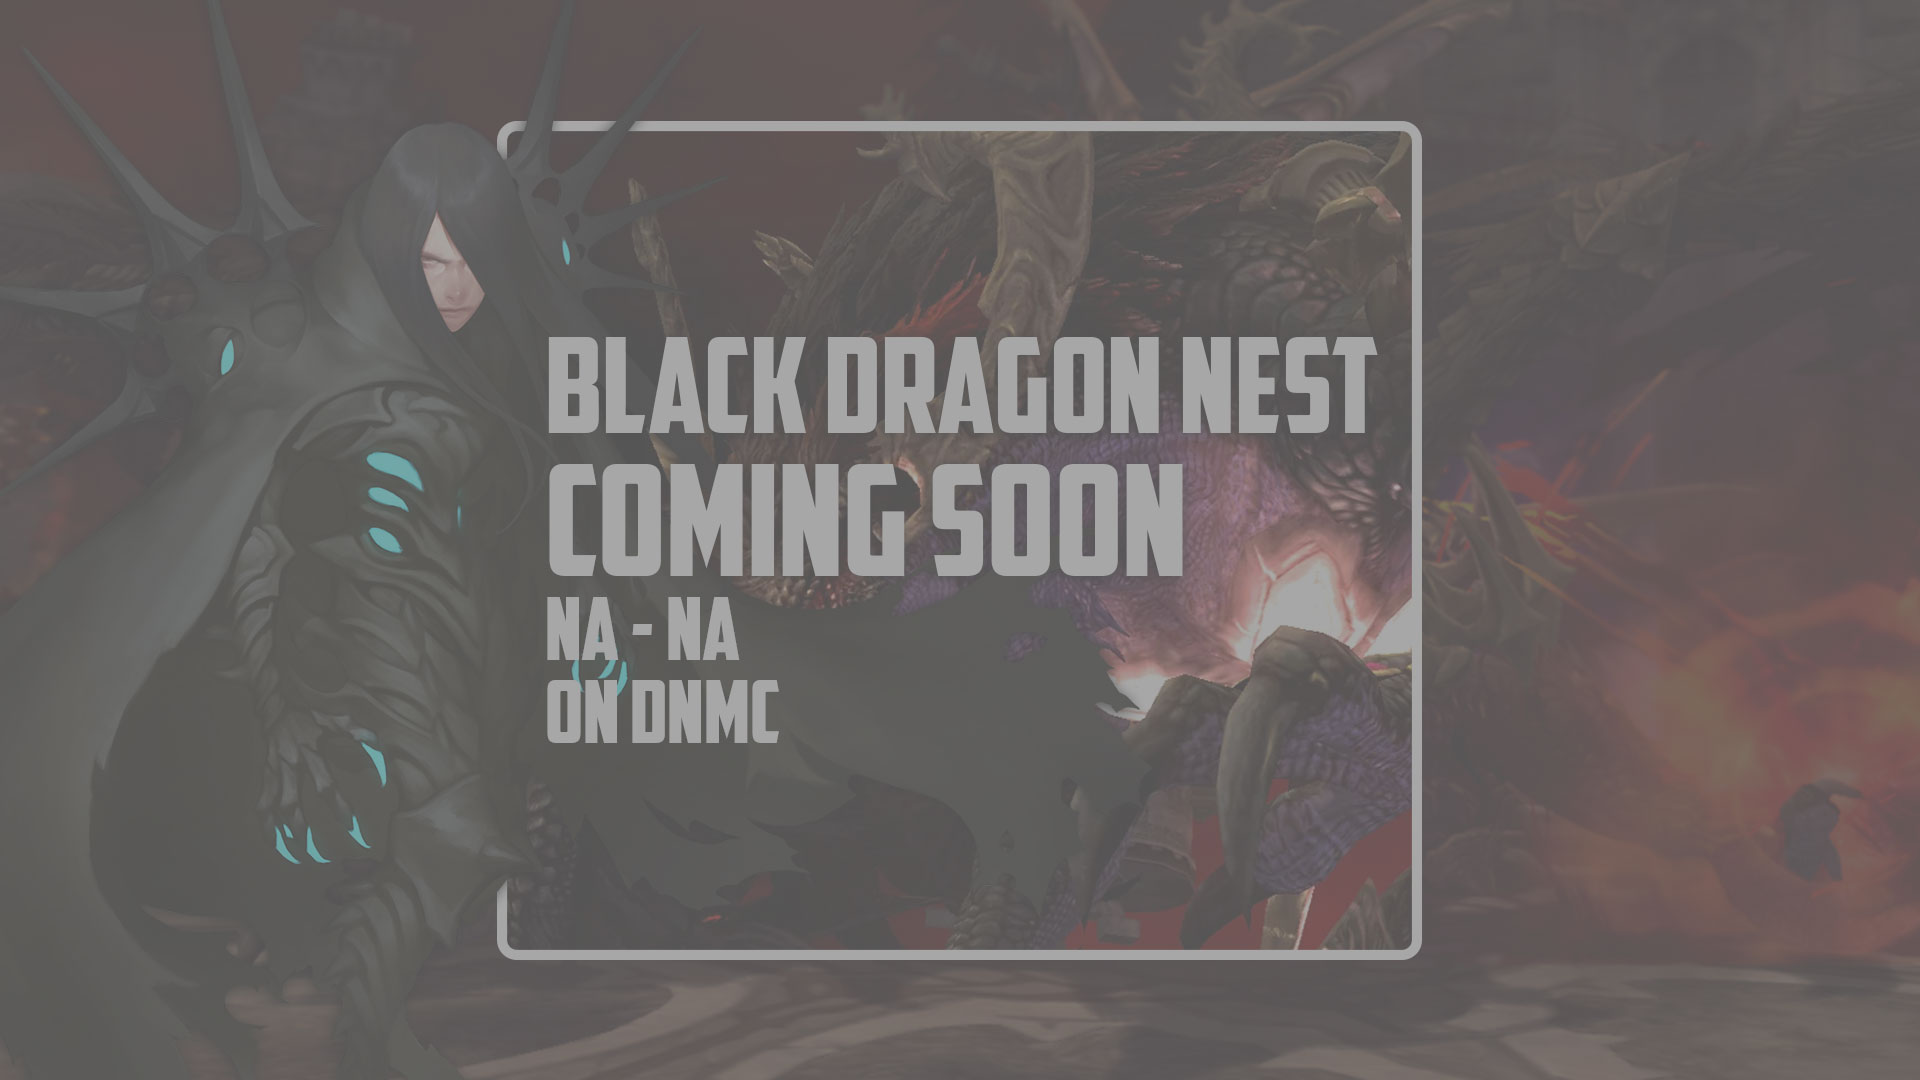
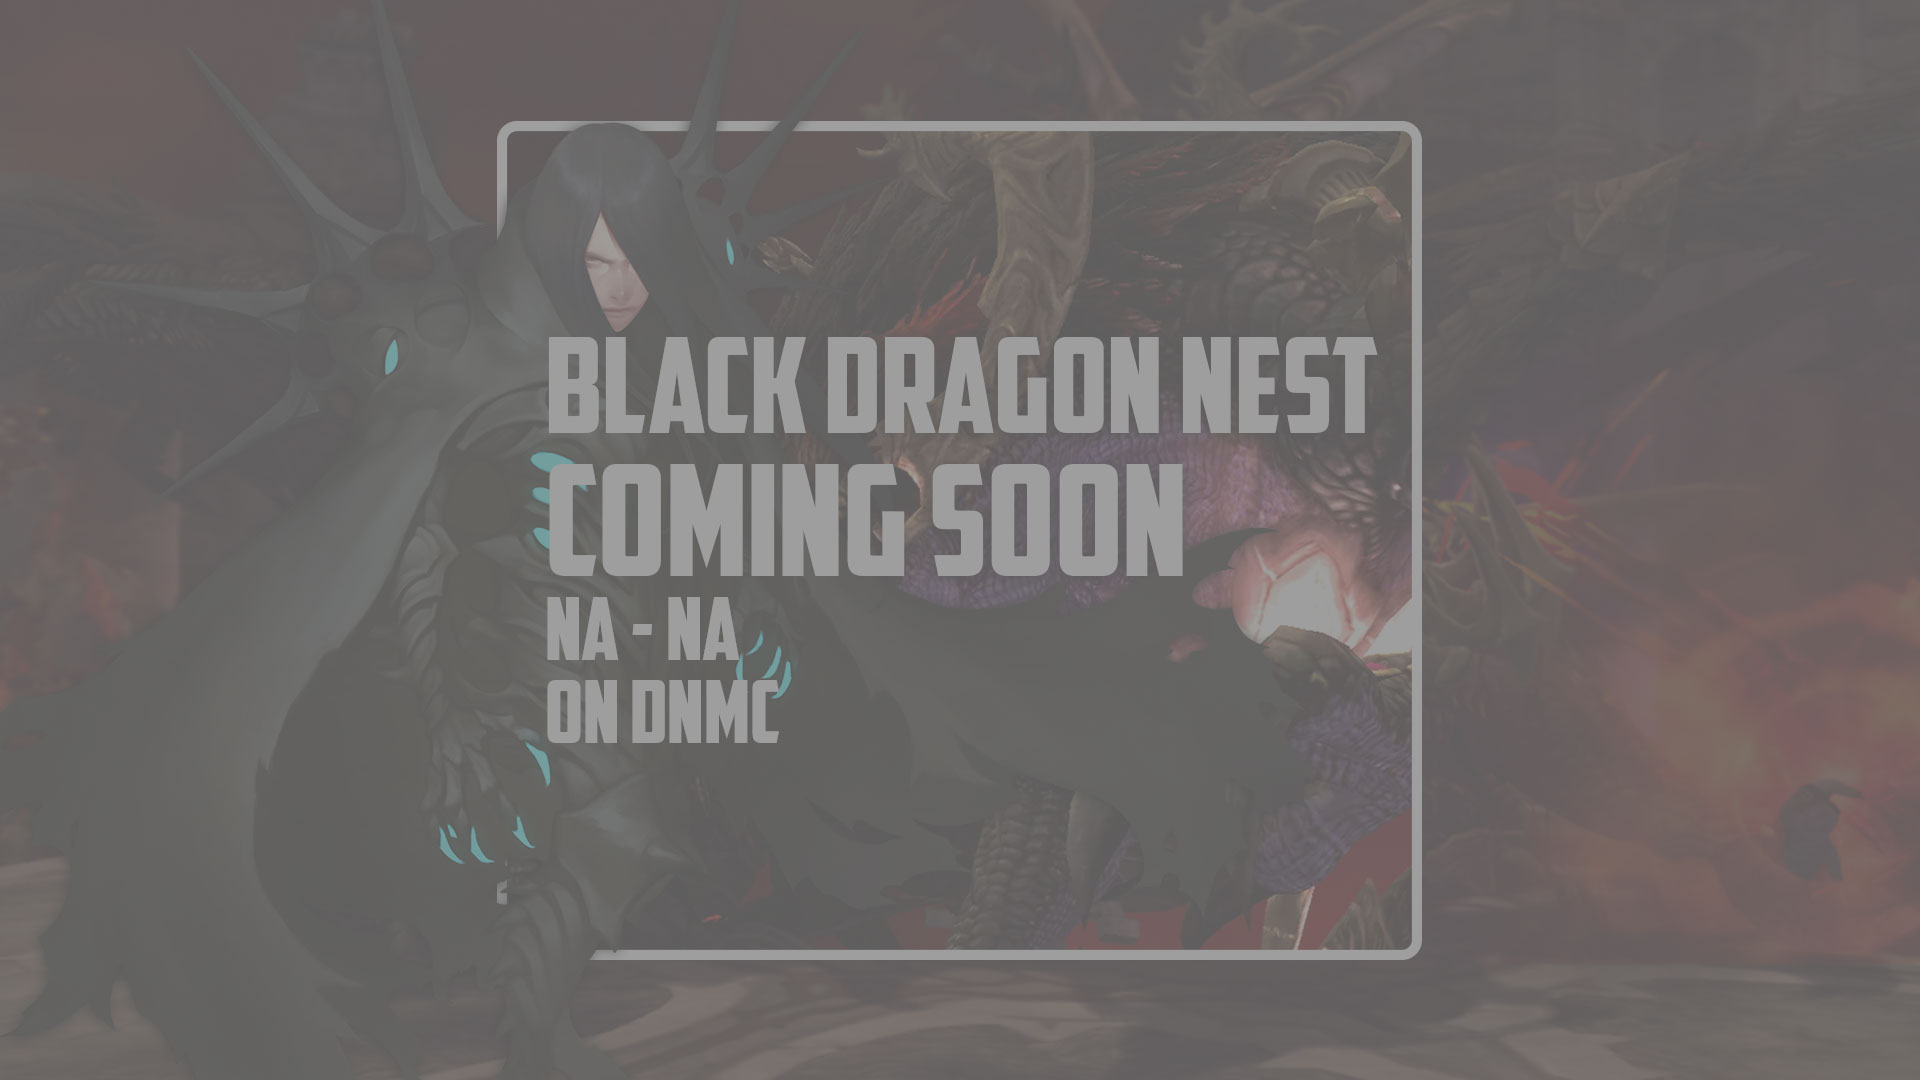
update jurney

diff --git a/jurney.html b/jurney.html
@@ -93,8 +93,9 @@
     <div class="bg-image jurney2"></div>
     <div class="bg-image jurney3"></div>
     <div class="bg-image jurney4"></div>
-    <!-- <div class="bg-image jurney5"></div>
-    <div class="bg-image jurney6"></div> -->
+    <div class="bg-image jurney5"></div>
+    <!-- <div class="bg-image jurney6"></div> -->
+
     <!-- TULISAN SQUAD DI TENGAH FIXED -->
     <!-- <div class="bg-text">SQUAD GOBLOCK</div> -->
 
